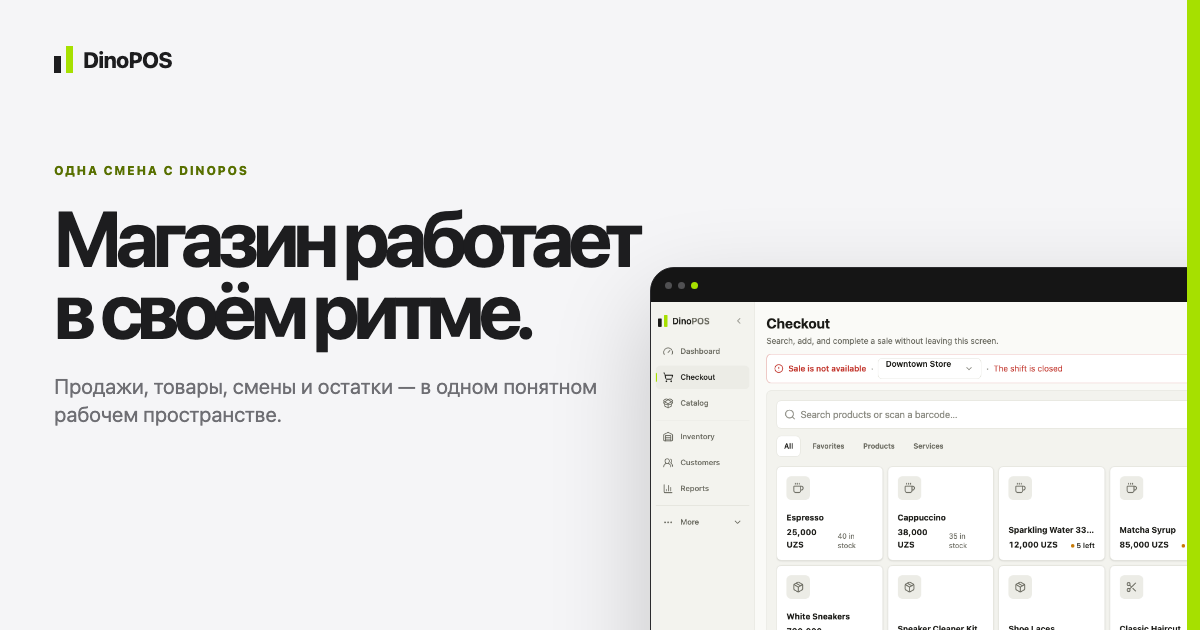
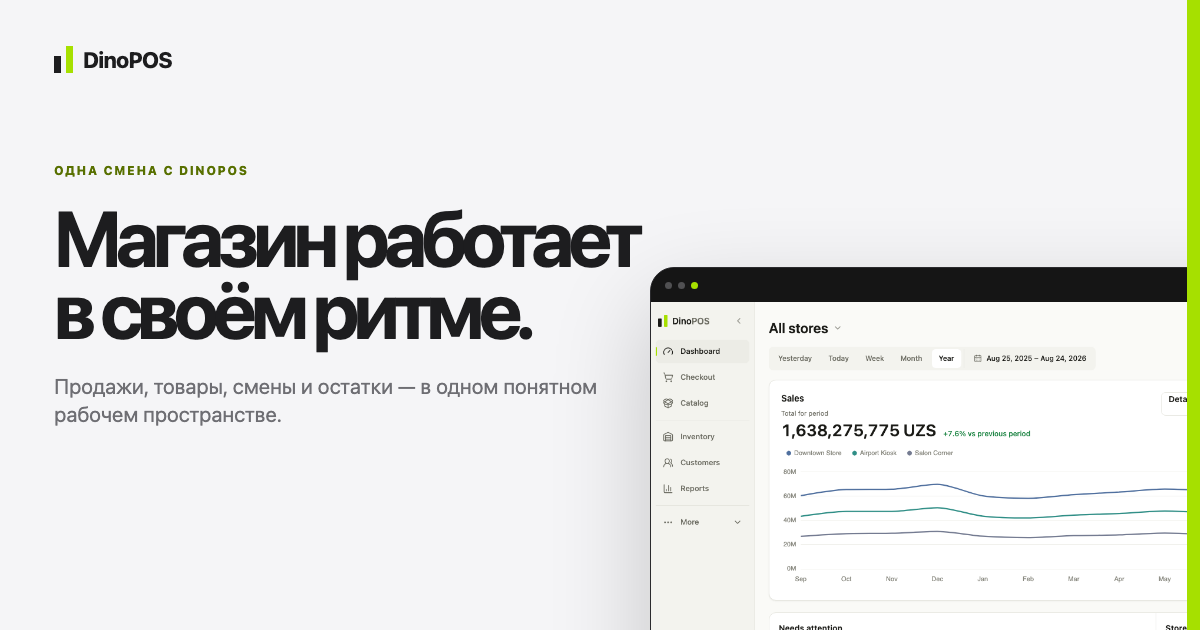
fix: polish landing product scenes

diff --git a/apps/web/src/modules/marketing/marketing-landing.css b/apps/web/src/modules/marketing/marketing-landing.css
@@ -268,7 +268,6 @@
   position: relative;
   overflow: hidden;
   width: 100%;
-  aspect-ratio: 16 / 9.72;
   border: 1px solid rgb(255 255 255 / 0.14);
   border-radius: clamp(14px, 2vw, 28px);
   background: #161616;
@@ -279,11 +278,8 @@
 }
 
 .product-frame-bar {
-  position: absolute;
-  z-index: 3;
-  top: 0;
-  right: 0;
-  left: 0;
+  position: relative;
+  z-index: 2;
   display: flex;
   height: 38px;
   align-items: center;
@@ -313,39 +309,22 @@
   letter-spacing: 0.02em;
 }
 
+.product-frame-viewport {
+  position: relative;
+  overflow: hidden;
+  width: 100%;
+  aspect-ratio: 16 / 10;
+  background: #fff;
+}
+
 .product-frame-image {
   position: absolute;
-  top: 38px;
-  left: 0;
+  inset: 0;
+  display: block;
   width: 100%;
-  height: calc(100% - 38px);
-  object-fit: cover;
-  object-position: top left;
-}
-
-.product-frame--rush .product-frame-image {
-  left: -4%;
-  width: 110%;
-  height: calc(110% - 38px);
-}
-
-.product-frame--offline .product-frame-image {
-  filter: grayscale(1) brightness(0.44) contrast(1.04);
-}
-
-.product-frame--offline::after {
-  position: absolute;
-  z-index: 2;
-  inset: 38px 0 0;
-  background: linear-gradient(135deg, rgb(0 0 0 / 0.12), rgb(0 0 0 / 0.34));
-  content: "";
-}
-
-.product-frame--inventory .product-frame-image {
-  top: 32px;
-  left: -3%;
-  width: 109%;
-  height: calc(109% - 32px);
+  height: 100%;
+  object-fit: contain;
+  object-position: center;
 }
 
 .product-frame-shine {
@@ -414,14 +393,16 @@
   display: grid;
   width: min(1480px, 100%);
   min-height: 100svh;
-  grid-template-columns: minmax(310px, 0.78fr) minmax(580px, 1.45fr);
+  grid-template-columns: minmax(420px, 1fr) minmax(560px, 1.3fr);
   align-items: center;
-  gap: clamp(50px, 7vw, 118px);
+  gap: clamp(36px, 4vw, 72px);
   margin: 0 auto;
   padding: 88px max(32px, 5vw) 54px;
 }
 
 .shift-copy {
+  position: relative;
+  z-index: 2;
   min-width: 0;
 }
 
@@ -477,10 +458,11 @@
 }
 
 .shift-copy-body h3 {
-  max-width: 520px;
+  max-width: 100%;
   margin: 18px 0 0;
-  font-size: clamp(36px, 4.1vw, 64px);
+  font-size: clamp(36px, 3.15vw, 50px);
   font-weight: 600;
+  hyphens: none;
   letter-spacing: -0.058em;
   line-height: 0.99;
   text-wrap: balance;
@@ -536,6 +518,7 @@
 
 .shift-product {
   position: relative;
+  z-index: 1;
   min-width: 0;
 }
 
@@ -917,7 +900,7 @@
 
 @media (max-width: 1100px) {
   .shift-sticky {
-    grid-template-columns: minmax(270px, 0.8fr) minmax(480px, 1.35fr);
+    grid-template-columns: minmax(320px, 0.85fr) minmax(450px, 1.15fr);
     gap: 40px;
     padding-right: 28px;
     padding-left: 28px;
@@ -925,6 +908,10 @@
 
   .shift-copy-body {
     min-height: 340px;
+  }
+
+  .shift-copy-body h3 {
+    font-size: clamp(34px, 3.9vw, 40px);
   }
 
   .role-stage {
@@ -1118,20 +1105,6 @@
 
   .product-frame-bar b {
     font-size: 7px;
-  }
-
-  .product-frame-image {
-    top: 26px;
-    height: calc(100% - 26px);
-  }
-
-  .product-frame--rush .product-frame-image,
-  .product-frame--inventory .product-frame-image {
-    top: 26px;
-  }
-
-  .product-frame--offline::after {
-    inset: 26px 0 0;
   }
 
   .shift-intro {

diff --git a/apps/web/src/modules/marketing/marketing-page.tsx b/apps/web/src/modules/marketing/marketing-page.tsx
@@ -53,20 +53,22 @@ function ProductFrame({
         <span />
         <b>DinoPOS</b>
       </div>
-      <AnimatePresence mode="wait" initial={false}>
-        <motion.img
-          alt={alt}
-          animate={{ opacity: 1, scale: 1 }}
-          className="product-frame-image"
-          decoding="async"
-          exit={reducedMotion ? undefined : { opacity: 0, scale: 1.018 }}
-          initial={reducedMotion ? false : { opacity: 0, scale: 0.985 }}
-          key={`${scene}-${sceneAssets[scene]}`}
-          loading="eager"
-          src={sceneAssets[scene]}
-          transition={{ duration: 0.5, ease: [0.22, 1, 0.36, 1] }}
-        />
-      </AnimatePresence>
+      <div className="product-frame-viewport">
+        <AnimatePresence mode="wait" initial={false}>
+          <motion.img
+            alt={alt}
+            animate={{ opacity: 1, scale: 1 }}
+            className="product-frame-image"
+            decoding="async"
+            exit={reducedMotion ? undefined : { opacity: 0, scale: 1.012 }}
+            initial={reducedMotion ? false : { opacity: 0, scale: 0.99 }}
+            key={`${scene}-${sceneAssets[scene]}`}
+            loading="eager"
+            src={sceneAssets[scene]}
+            transition={{ duration: 0.5, ease: [0.22, 1, 0.36, 1] }}
+          />
+        </AnimatePresence>
+      </div>
       <div className="product-frame-shine" aria-hidden="true" />
     </div>
   );
@@ -189,7 +191,7 @@ export function MarketingPage() {
             </div>
           </motion.div>
           <motion.div className="landing-hero-product" style={{ scale: heroFrameScale, y: heroFrameY }}>
-            <ProductFrame alt={current.shiftEvents[1]?.title ?? current.heroTitle} reducedMotion={reducedMotion} scene="rush" />
+            <ProductFrame alt={current.shiftEvents[4]?.title ?? current.heroTitle} reducedMotion={reducedMotion} scene="closing" />
           </motion.div>
         </section>
 

diff --git a/e2e/marketing-quality.spec.ts b/e2e/marketing-quality.spec.ts
@@ -62,6 +62,37 @@ test("scroll story, roles, and locales remain operable", async ({ page }) => {
   await expect(page.locator('a[href*="dashboard"]')).toHaveCount(0);
 });
 
+test("product frames stay readable, complete, and separated from copy", async ({ page }) => {
+  await page.setViewportSize({ width: 2048, height: 1152 });
+  await waitForLanding(page);
+
+  const heroImage = page.locator(".landing-hero .product-frame-image");
+  await expect(heroImage).toHaveAttribute("src", /product\/dashboard\.png$/);
+  await expect(heroImage).toHaveCSS("object-fit", "contain");
+
+  const offline = page.getByRole("button", { name: /14:18:/ });
+  await offline.click();
+  await expect(offline).toHaveAttribute("aria-pressed", "true");
+  await expect(page.locator(".shift-product .product-frame-image")).toHaveCSS("filter", "none");
+
+  const inventory = page.getByRole("button", { name: /18:35:/ });
+  await inventory.click();
+  await expect(inventory).toHaveAttribute("aria-pressed", "true");
+
+  const separation = await page.evaluate(() => {
+    const heading = document.querySelector<HTMLElement>(".shift-copy-body h3");
+    const frame = document.querySelector<HTMLElement>(".shift-product .product-frame");
+    if (!heading || !frame) throw new Error("Story layout is missing");
+    const range = document.createRange();
+    range.selectNodeContents(heading);
+    return {
+      textRight: range.getBoundingClientRect().right,
+      frameLeft: frame.getBoundingClientRect().left,
+    };
+  });
+  expect(separation.textRight).toBeLessThan(separation.frameLeft);
+});
+
 test("landing passes automated accessibility checks and reduced motion", async ({ page }) => {
   await page.emulateMedia({ reducedMotion: "reduce" });
   await waitForLanding(page);
